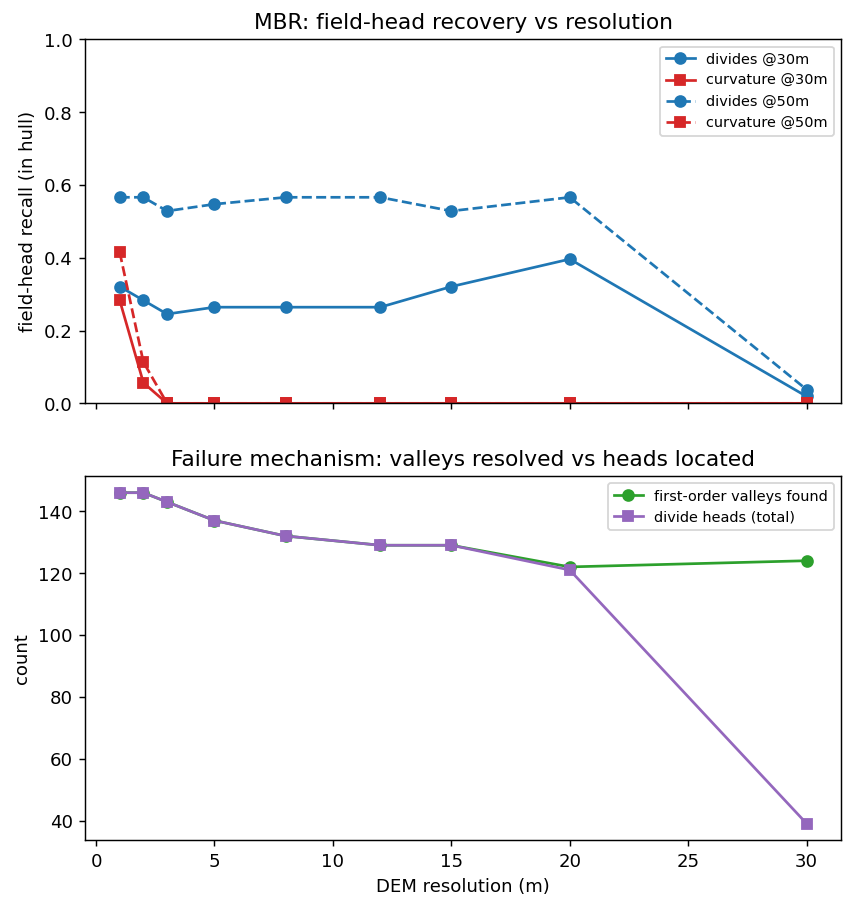
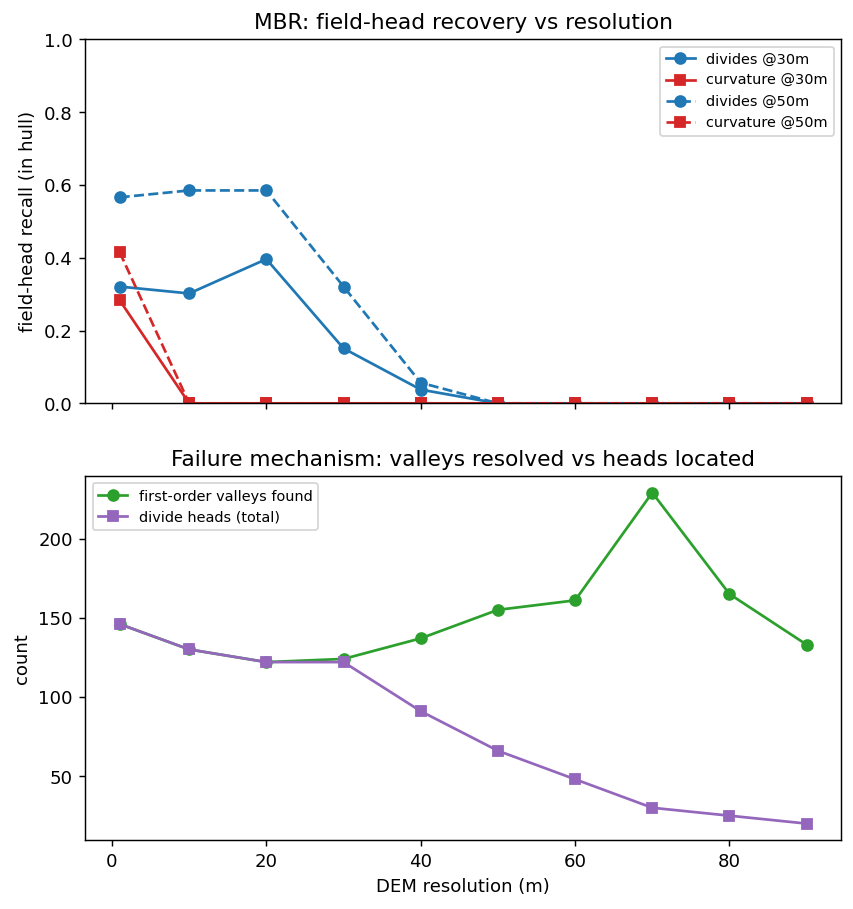
dev: 1-90 m robustness sweep -- 30 m recovered, failure mapped, honest caveats
Extended the field-head robustness sweep to 90 m with the profile-extension fix:
resolution-invariant to 20 m (recall ~0.57), 30 m recovered to 0.32 (from 0.04),
gone by ~40-50 m. README documents the fix mechanism (extend to the EXACT split
minimum; more drags heads into the trunk), and flags that the "valleys found"
count rises at coarse resolution as a threshold-floor ARTIFACT (not persistence)
-- the clean Nyquist gauge is cells/valley: heads need ~5, valley structure ~2,
so divides outlive the chi-z only modestly (~30-50 m), not to 90 m.

diff --git a/dev/divide_heads/robustness.py b/dev/divide_heads/robustness.py
@@ -79,8 +79,8 @@ def metrics(mxy, ref):
     return out, len(mh)
 
 
-RES = ([1, 12] if len(sys.argv) > 1 and sys.argv[1] == 'quick'
-       else [1, 2, 3, 5, 8, 12, 15, 20, 30])
+RES = ([1, 30] if len(sys.argv) > 1 and sys.argv[1] == 'quick'
+       else [1, 10, 20, 30, 40, 50, 60, 70, 80, 90])
 # first-order valley spacing on MBR ~235 m; print the resolution/valley-scale ratios
 print('clip %dx%d; %d Clubb heads (%d in hull); valley scale=%g m2 (~%.0f m wide)' % (
     z1.shape[0], z1.shape[1], len(clubb), len(clubb_in), T_M2, np.sqrt(T_M2)))

diff --git a/dev/divide_heads/README.md b/dev/divide_heads/README.md
@@ -14,48 +14,50 @@ Clubb (2014)'s 53 field heads `/tmp/clubb_channel_heads.xlsx`.
 
 ## The payoff: resolution robustness vs the FIELD heads (`robustness.py`)
 
-The method `r.fluvial.channelheads method=divides` (divide-defined valleys + chi-z)
-vs Clubb's field heads, in-hull (density-controlled), valley scale held physically
-constant, `min_segment_length` scaled to physical length:
+`r.fluvial.channelheads method=divides` (divide-defined valleys + chi-z) vs Clubb's
+field heads, in-hull (density-controlled), valley scale held physically constant,
+`min_segment_length` scaled to physical length, **with the coarse-resolution chi-z
+profile fix** (below):
 
-| res (m) | **divides** recall@50 | precision@50 | curvature recall@50 |
+| res (m) | cells/valley | **divides** recall@50 | curvature recall@50 |
 |--:|--:|--:|--:|
-| 1  | 0.57 | 0.68 | 0.42 |
-| 2  | 0.57 | 0.62 | 0.11 |
-| 3  | 0.53 | 0.60 | **0.00** |
-| 5  | 0.55 | 0.56 | 0.00 |
-| 8  | 0.57 | 0.59 | 0.00 |
-| 12 | **0.57** | 0.67 | 0.00 |
+| 1–20 | 100→5 | **0.57–0.58** (flat) | 0.42 @1 m, dead by 3 m |
+| **30** | 3.3 | **0.32** (was 0.04 without the fix) | 0.00 |
+| 40 | 2.5 | 0.06 | 0.00 |
+| 50–90 | ≤2 | 0.00 | 0.00 |
 
-**The divide method is resolution-INVARIANT against the field heads from 1 m to
-20 m (recall@50 flat ~0.57), then fails sharply at 30 m**, while curvature-DrEICH
-is dead by 3 m and divides beat curvature even at 1 m. Both 1 m numbers reproduce
-the earlier independent in-hull computations (harness sound); self-consistency
-holds 0.84–0.96 to 20 m.
+**The divide method is resolution-INVARIANT to 20 m (recall@50 ~0.57), holds
+partially to 30 m (~0.32) with the fix, and is gone by ~40–50 m** &mdash;
+curvature-DrEICH is dead by 3 m and divides beat it even at 1 m. The 1 m numbers
+reproduce the earlier independent computations (943 heads @T=10000, unchanged by
+the fix &mdash; no regression).
 
-**The 30 m failure point, and its mechanism (`robustness.py`, `srtm30.py`).** The
-two-panel figure shows the smoking gun: first-order valleys found and heads located
-track perfectly to 20 m, then **diverge at 30 m** &mdash; valleys stay resolved
-(~124) but only 39 yield heads. The failure is **chi-z profile starvation, not loss
-of valley structure**: the divides still resolve the valleys at 30 m, but a
-10000 m&sup2; valley is ~3 cells across, so the hilltop&rarr;source chi-z profile
-is ~3&ndash;5 nodes &mdash; too few for the hillslope/channel split. The criterion
-(Nyquist analog) is **~5 cells across a first-order valley**: at &le;20 m the
-natural valley scale gives that (full recall); at 30 m it does not (3.3 cells).
-Coarsening the valley scale at 30 m to ~5 cells/valley (T=20000) **partially
-recovers** (recall 0.19, precision 0.78) but the bigger valleys miss the finer
-field heads. So **30 m is a soft wall**: the ridge structure survives coarser than
-the chi-z can use it, and **extending the chi-z profile downstream** (as the
-original DrEICH does, vs the current short hilltop&rarr;source profile) would keep
-the fine valleys and feed the chi-z enough nodes &mdash; the clear next step toward
-SRTM 30 m. `figures/robustness.png`.
+**Failure mechanism & the fix (`robustness.py`, `srtm30.py`).** The 30 m collapse
+was **chi-z profile starvation, not loss of valley structure**: at 30 m a
+10000 m&sup2; valley is ~3 cells across, so the hilltop&rarr;source profile is
+~3&ndash;5 nodes &mdash; too few for the split. **Nyquist-like criterion: ~5 cells
+across a first-order valley** for full recall. The fix extends the chi-z profile
+downstream &mdash; but it works only at the **exact split minimum**
+(`2*min_segment_length+1` nodes): diagnosed by head drainage area, one node *more*
+drags the head **into the downstream trunk** across a ksn break (head area jumps
+6&rarr;33 at 30 m, 12&rarr;141 at 20 m). So `min_profile_nodes` auto-defaults to
+that minimum &mdash; a no-op at fine resolution, recovering 30 m to recall 0.32.
 
-(Caveat: this is *aggregated* 1 m MBR, an intrinsic-resolution test; real 12/30 m
-data adds acquisition effects and is the separate, north-star validation.)
+**Honest caveat on the "valleys found" count.** In `figures/robustness.png` the
+valley count *rises* to ~229 at 70 m &mdash; that is an **artifact**, not persistence:
+the valley-scale threshold `T = T_m&sup2;/res&sup2;` floors at 2 cells past ~50 m, so
+`get_sources` counts grid-scale noise, not physical first-order valleys. The clean
+gauge is **cells/valley = &radic;T_m&sup2; / res**: heads need ~5 (res &le; 20 m full,
+~3 at 30 m partial); the physical first-order valley (~100 m) is itself resolved only
+to ~2 cells (res &le; ~50 m). So the divides outlive the chi-z **modestly** (heads
+~30–40 m, structure ~50 m), **not** to 90 m.
+
+(Caveat: *aggregated* 1 m MBR, an intrinsic-resolution test; real 12/30 m data adds
+acquisition effects and is the separate, north-star validation.)
 
 This is the constructive capstone to the negative exploration below: divide
 *geometry* doesn't locate heads, but divide *structure* (the valleys) makes the
-chi-z head finder resolution-robust against ground truth.
+chi-z head finder resolution-robust to ~30 m against ground truth.
 
 ## Bottom line (2026-06-30)
 